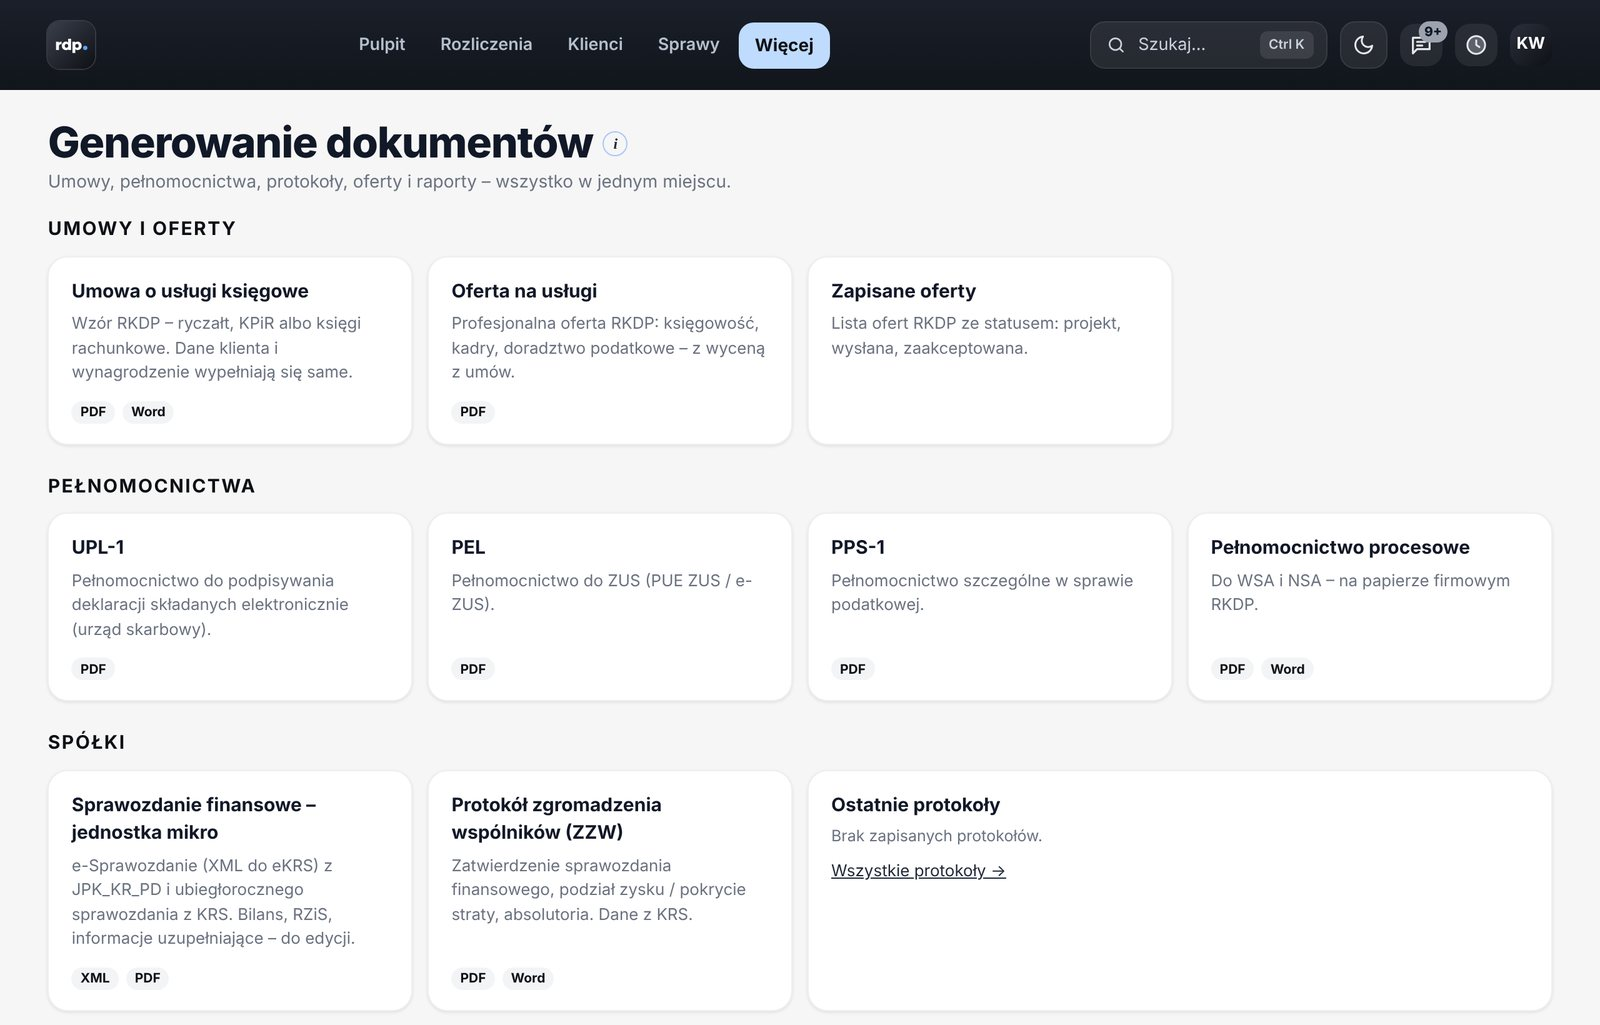
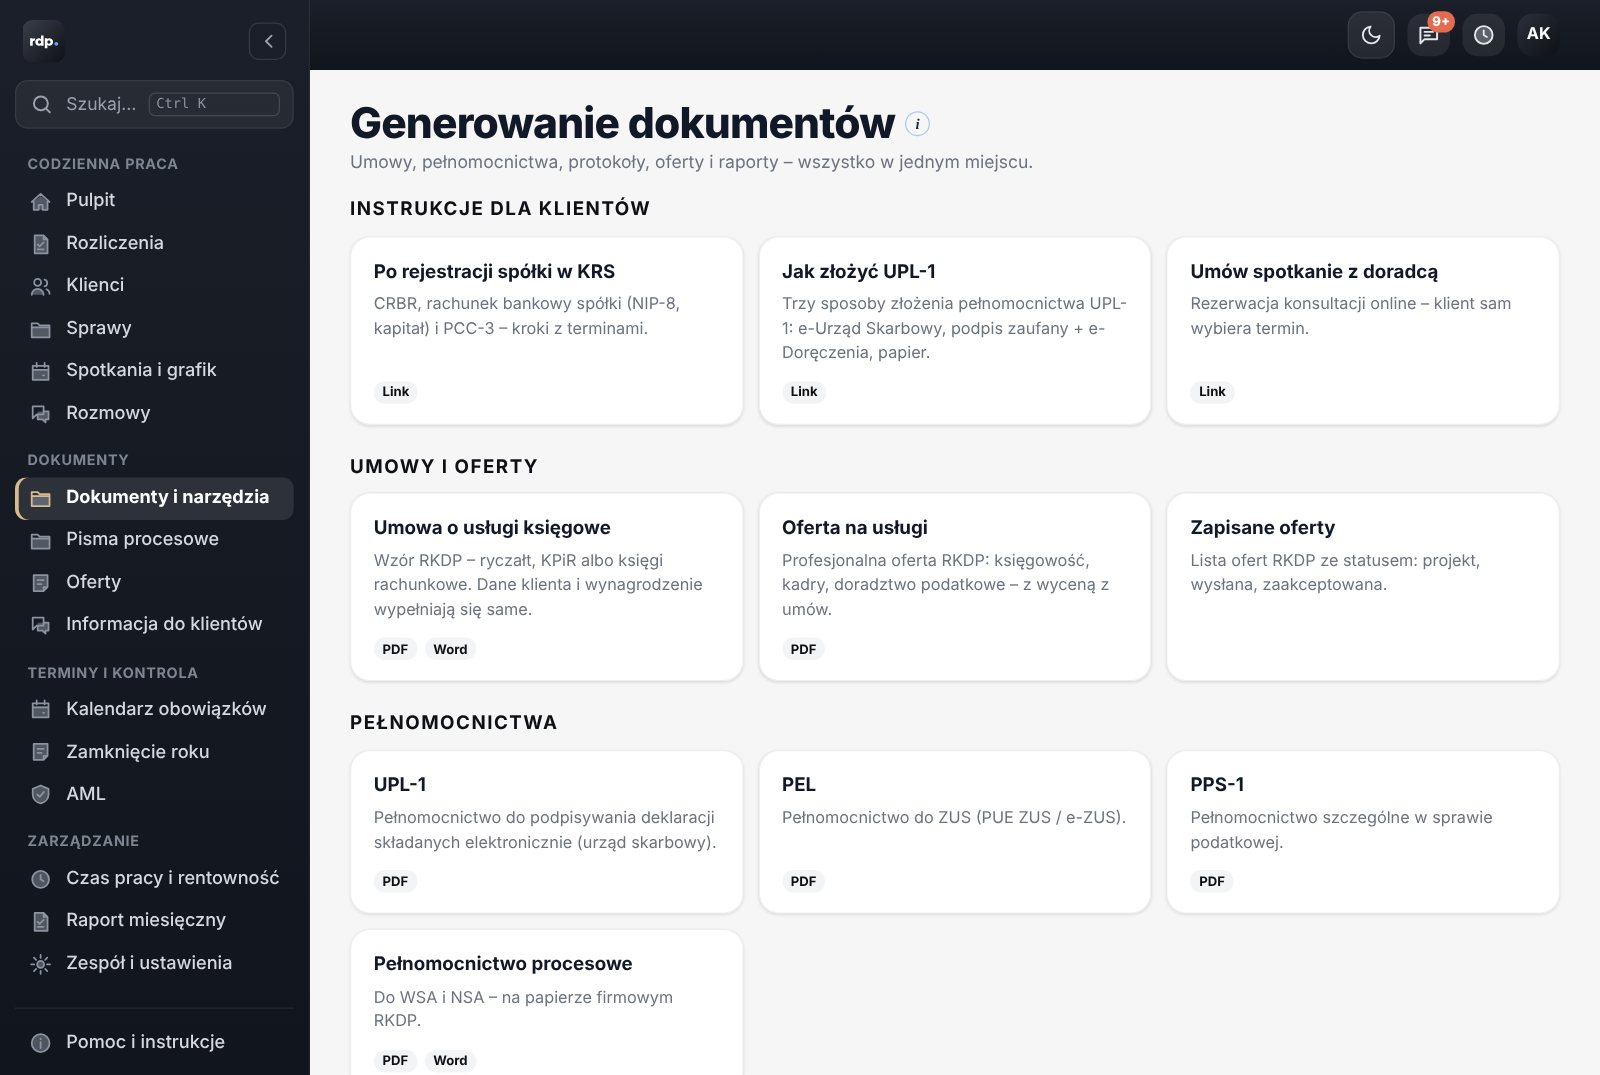
Instrukcja dla klienta po rejestracji spółki w KRS + Instrukcje dla klientów w Dokumentach
Claude-Session: https://claude.ai/code/session_015JBGQnBs9Q66i9WSPfBoSb

diff --git a/public/po-rejestracji/index.html b/public/po-rejestracji/index.html
@@ -1,0 +1,92 @@
+<!doctype html>
+<html lang="pl">
+<head>
+<meta charset="utf-8">
+<meta name="viewport" content="width=device-width, initial-scale=1">
+<title>Spółka zarejestrowana w KRS – co dalej</title>
+<meta name="description" content="Kroki po rejestracji spółki w KRS: zgłoszenie do CRBR, rachunek bankowy spółki, PCC-3.">
+<link rel="icon" href="/favicon-v7.svg" type="image/svg+xml">
+<link rel="stylesheet" href="/umow/doc.css">
+<style>
+.step-meta{display:flex;flex-wrap:wrap;gap:6px 18px;margin:0 0 12px;font-size:15px;color:var(--muted)}
+.step-meta b{color:var(--ink)}
+.toc{list-style:none;padding:0;margin:22px 0 6px;border-top:1px solid var(--line)}
+.toc li{margin:0;border-bottom:1px solid var(--line)}
+.toc a{display:flex;gap:14px;align-items:baseline;padding:12px 2px;text-decoration:none;color:var(--ink);font-weight:600}
+.toc a span{font-family:var(--serif);color:var(--accent);min-width:18px}
+.toc a em{font-style:normal;font-weight:400;color:var(--muted);font-size:15px;margin-left:auto;text-align:right}
+@media (max-width:560px){.toc a{flex-wrap:wrap}.toc a em{margin-left:32px;text-align:left;width:100%}}
+</style>
+</head>
+<body>
+<header><div class="in"><span class="brand"><img src="/logo-rdp.svg" alt="rdp.app" width="32" height="32"><span>Po rejestracji spółki</span></span><span class="appname">rdp.app</span></div></header>
+<main>
+<p class="kicker" id="firma" hidden></p>
+<h1>Spółka zarejestrowana w KRS – co dalej</h1>
+<p class="meta">Instrukcja dla klientów · aktualna na listopad 2026 r.</p>
+
+<p>Szanowni Państwo,</p>
+<p>gratulujemy rejestracji spółki w KRS. W związku z tym prosimy o wykonanie kilku niezbędnych kroków organizacyjnych. Każdy z nich ma swój termin – najlepiej zająć się nimi od razu.</p>
+
+<ol class="toc">
+<li><a href="#crbr"><span>1</span>Zgłoszenie do CRBR<em>14 dni od wpisu do KRS</em></a></li>
+<li><a href="#bank"><span>2</span>Rachunek bankowy spółki<em>niezwłocznie, najlepiej do 14 dni</em></a></li>
+<li><a href="#pcc"><span>3</span>PCC-3 – deklaracja i zapłata podatku<em>14 dni od zawarcia umowy spółki</em></a></li>
+</ol>
+
+<section id="crbr">
+<h2>1. Zgłoszenie spółki do Centralnego Rejestru Beneficjentów Rzeczywistych (CRBR)</h2>
+<p class="step-meta"><span>Termin: <b>14 dni od wpisu do KRS</b> (nie licząc sobót i niedziel)</span><span>Opłata: <b>bezpłatnie</b></span></p>
+<p>Zgłoszenia należy dokonać niezwłocznie pod adresem: <a href="https://crbr.podatki.gov.pl/adcrbr/#/" target="_blank" rel="noopener">crbr.podatki.gov.pl/adcrbr</a>.</p>
+<div class="box hl"><p><strong>Bez zgłoszenia w CRBR nie będzie możliwe otwarcie rachunku bankowego spółki</strong> – bank poprosi o potwierdzenie zgłoszenia.</p></div>
+<ol>
+<li>Wejdź na stronę <a href="https://crbr.podatki.gov.pl/adcrbr/#/" target="_blank" rel="noopener">crbr.podatki.gov.pl</a>.</li>
+<li>Wybierz opcję <strong>„Złóż zgłoszenie”</strong>.</li>
+<li>Wypełnij formularz zgodnie z danymi z KRS: dane spółki oraz <strong>beneficjentów rzeczywistych</strong> – zwykle są to wspólnicy spółki (osoby, które mają ponad 25% udziałów). Jeśli żaden wspólnik nie spełnia tego warunku, wpisuje się członków zarządu.</li>
+<li>Wpisz także dane <strong>osoby składającej zgłoszenie</strong> – musi to być osoba uprawniona do reprezentowania spółki (np. członek zarządu).</li>
+<li>Podpisz zgłoszenie <strong>profilem zaufanym</strong>, <strong>e-dowodem</strong> albo kwalifikowanym podpisem elektronicznym i wyślij.</li>
+<li>Pobierz <strong>potwierdzenie złożenia zgłoszenia</strong> – przyda się w banku. Prosimy przesłać je też nam.</li>
+</ol>
+<p class="small">Zgłoszenie składa wyłącznie osoba uprawniona do reprezentowania spółki – nie można w tym zakresie udzielić pełnomocnictwa. W razie problemów ze zgłoszeniem prosimy o kontakt – pomożemy krok po kroku.</p>
+</section>
+
+<section id="bank">
+<h2>2. Założenie rachunku bankowego spółki</h2>
+<p class="step-meta"><span>Termin: <b>niezwłocznie, najlepiej w ciągu 14 dni od wpisu do KRS</b></span></p>
+<p>Prosimy założyć rachunek bankowy spółki <strong>w terminie 14 dni od dnia rejestracji w KRS</strong>. Rachunek jest potrzebny, bo:</p>
+<ul>
+<li>jego numer trzeba zgłosić do urzędu skarbowego na formularzu <strong>NIP-8</strong> – w ciągu <strong>21 dni od wpisu do KRS</strong> (każdą późniejszą zmianę rachunku – w ciągu 7 dni),</li>
+<li>w spółce założonej przez internet (S24) wspólnicy wpłacają <strong>kapitał zakładowy</strong> na rachunek spółki w ciągu <strong>7 dni od wpisu do KRS</strong>,</li>
+<li>z rachunku spółki płaci się podatki i rozlicza transakcje firmowe.</li>
+</ul>
+<ol>
+<li>Wybierz bank i umów się na otwarcie rachunku firmowego (wiele banków robi to online).</li>
+<li>Przygotuj: numer KRS, NIP i REGON spółki, <strong>potwierdzenie zgłoszenia do CRBR</strong> oraz dowody osobiste członków zarządu.</li>
+<li>Po założeniu rachunku <strong>prześlij nam skan lub PDF potwierdzenia otwarcia rachunku</strong> e-mailem <span id="mail-to"></span> – zgłosimy numer rachunku w NIP-8.</li>
+</ol>
+</section>
+
+<section id="pcc">
+<h2>3. PCC-3 – złożenie deklaracji i zapłata podatku</h2>
+<p class="step-meta"><span>Termin: <b>14 dni od zawarcia umowy spółki</b></span><span>Stawka: <b>0,5%</b></span></p>
+<div class="box"><p><strong>Kogo dotyczy?</strong> Spółek, których umowę zawarto <strong>przez internet (S24)</strong>. Jeśli umowa spółki była podpisana <strong>u notariusza</strong>, podatek pobrał notariusz – ten krok można pominąć.</p></div>
+<h3>Ile wynosi podatek</h3>
+<p>Podatek to <strong>0,5% kapitału zakładowego</strong>, pomniejszonego o koszty założenia spółki – przy S24 jest to opłata sądowa za wpis do KRS (250 zł). Podstawę i podatek zaokrągla się do pełnych złotych.</p>
+<p class="small">Przykład: kapitał 5000 zł, opłata sądowa 250 zł → podstawa 4750 zł × 0,5% = 23,75 zł → do zapłaty <strong>24 zł</strong>.</p>
+<h3>Jak złożyć i zapłacić</h3>
+<ol>
+<li>Złóż deklarację <strong>PCC-3</strong> w imieniu spółki (NIP spółki) – najprościej online w <a href="https://www.podatki.gov.pl/e-urzad-skarbowy/" target="_blank" rel="noopener">e-Urzędzie Skarbowym</a>. Urząd skarbowy: właściwy dla siedziby spółki. Przedmiot opodatkowania: <strong>umowa spółki</strong>.</li>
+<li>Zapłać podatek na <strong>indywidualny mikrorachunek podatkowy spółki</strong> – numer wygenerujesz na <a href="https://www.podatki.gov.pl/generator-mikrorachunku-podatkowego" target="_blank" rel="noopener">podatki.gov.pl → generator mikrorachunku</a> (podaj NIP spółki). W tytule: <strong>PCC-3</strong> i data zawarcia umowy.</li>
+<li>Zachowaj <strong>UPO</strong> (potwierdzenie złożenia) i potwierdzenie przelewu i prześlij je nam.</li>
+</ol>
+<p class="small">Możemy złożyć PCC-3 za Państwa – wystarczy pełnomocnictwo <a href="/upl-1/">UPL-1</a>. Jeśli termin 14 dni już minął, prosimy o pilny kontakt – pomożemy uregulować podatek z jak najmniejszymi konsekwencjami.</p>
+</section>
+
+<h2>Masz pytanie?</h2>
+<p id="kontakt-osoba" hidden></p>
+<p>Odpowiedz na naszego e-maila albo zadzwoń: <a href="tel:+48883643565">883 643 565</a> · <a href="mailto:kancelaria@rkdp.pl">kancelaria@rkdp.pl</a>.</p>
+</main>
+<footer><div class="in">RKDP spółka doradztwa podatkowego sp. z o.o. · ul. Beaty Artemskiej 11/44, 52-234 Wrocław<br>NIP 8992871126 · KRS 0000812185 · tel. 883 643 565 · kancelaria@rkdp.pl</div></footer>
+<script src="/po-rejestracji/po.js"></script>
+</body>
+</html>

diff --git a/public/js/tools/instrukcje.js b/public/js/tools/instrukcje.js
@@ -1,0 +1,47 @@
+// Instrukcje dla klientów – jedno miejsce z linkami do stron dla klientów (kopiuj, otwórz, wyślij e-mailem).
+import { h, modal, toast } from '../ui.js';
+import { state } from '../store.js';
+
+export const INSTRUKCJE = [
+  { key: 'po-rejestracji', title: 'Po rejestracji spółki w KRS', path: '/po-rejestracji/', personal: true,
+    desc: 'CRBR, rachunek bankowy spółki (NIP-8, kapitał) i PCC-3 – kroki z terminami.',
+    subject: 'Spółka zarejestrowana w KRS – kolejne kroki',
+    body: (link) => `Szanowni Państwo,\n\ngratuluję rejestracji spółki w KRS. W związku z tym proszę o realizację kilku niezbędnych kroków organizacyjnych:\n\n1. Zgłoszenie spółki do Centralnego Rejestru Beneficjentów Rzeczywistych (CRBR) – w ciągu 14 dni od wpisu do KRS. Bez zgłoszenia w CRBR nie będzie możliwe otwarcie rachunku bankowego spółki.\n2. Założenie rachunku bankowego spółki – po założeniu proszę o przesłanie skanu potwierdzenia otwarcia rachunku na mój adres e-mail.\n3. PCC-3 – złożenie deklaracji i zapłata podatku (spółki założone przez S24) – w ciągu 14 dni od zawarcia umowy spółki.\n\nInstrukcja krok po kroku: ${link}\n\nW razie problemów proszę o kontakt – pomogę krok po kroku.` },
+  { key: 'upl-1', title: 'Jak złożyć UPL-1', path: '/upl-1/',
+    desc: 'Trzy sposoby złożenia pełnomocnictwa UPL-1: e-Urząd Skarbowy, podpis zaufany + e-Doręczenia, papier.',
+    subject: 'Pełnomocnictwo UPL-1 – instrukcja',
+    body: (link) => `Dzień dobry,\n\nprzesyłamy instrukcję złożenia pełnomocnictwa UPL-1 – dzięki niemu będziemy mogli wysyłać w Państwa imieniu deklaracje i pliki JPK do urzędu skarbowego. Złożenie UPL-1 jest bezpłatne.\n\nInstrukcja krok po kroku: ${link}\n\nW razie pytań jesteśmy do dyspozycji.` },
+  { key: 'umow', title: 'Umów spotkanie z doradcą', path: '/umow/',
+    desc: 'Rezerwacja konsultacji online – klient sam wybiera termin.',
+    subject: 'Umówienie spotkania',
+    body: (link) => `Dzień dobry,\n\ntermin spotkania można wybrać samodzielnie pod linkiem: ${link}\n\nPozdrawiam` },
+];
+
+export function instrukcjaDialog(item) {
+  const me = state.me || {};
+  const f = { firma: '', osoba: me.full_name || '', email: me.email || '', tel: '', to: '' };
+  const link = () => {
+    const q = new URLSearchParams();
+    if (item.personal) for (const k of ['firma', 'osoba', 'email', 'tel']) if (f[k].trim()) q.set(k, f[k].trim());
+    return `${location.origin}${item.path}${q.toString() ? '?' + q : ''}`;
+  };
+  const out = h('input', { class: 'input', readonly: true, value: link(), onfocus: e => e.target.select() });
+  const upd = () => { out.value = link(); };
+  const field = (label, k, attrs = {}) => h('label', { class: 'field' }, h('span', {}, label),
+    h('input', { class: 'input', value: f[k], maxlength: 120, ...attrs, oninput: e => { f[k] = e.target.value; upd(); } }));
+  const copy = async () => { try { await navigator.clipboard.writeText(link()); toast('Link skopiowany'); } catch { out.select(); toast('Zaznaczono link – skopiuj Ctrl+C'); } };
+  const mail = () => { location.href = `mailto:${encodeURIComponent(f.to.trim())}?subject=${encodeURIComponent(item.subject)}&body=${encodeURIComponent(item.body(link()))}`; };
+  const body = h('div', {},
+    h('p', { class: 'small muted', style: { margin: '0 0 12px' } }, item.desc),
+    item.personal ? h('div', {},
+      field('Nazwa klienta (opcjonalnie – pojawi się na górze strony)', 'firma', { placeholder: 'np. Alfa Bud sp. z o.o.' }),
+      h('div', { class: 'grid2', style: { display: 'grid', gridTemplateColumns: 'repeat(auto-fit,minmax(180px,1fr))', gap: '0 12px' } },
+        field('Opiekun', 'osoba'), field('E-mail opiekuna (tu klient wyśle potwierdzenia)', 'email', { type: 'email' }), field('Telefon (opcjonalnie)', 'tel', { type: 'tel' }))) : null,
+    field('Adres e-mail klienta (do wiadomości)', 'to', { type: 'email', placeholder: 'klient@firma.pl' }),
+    h('label', { class: 'field' }, h('span', {}, 'Link dla klienta'), out));
+  modal(item.title, body, close => [
+    h('a', { class: 'btn btn-sm', href: link(), target: '_blank', rel: 'noopener', onclick: e => { e.currentTarget.href = link(); } }, 'Otwórz'),
+    h('button', { class: 'btn btn-sm', onclick: copy }, 'Kopiuj link'),
+    h('button', { class: 'btn btn-primary btn-sm', onclick: () => { mail(); close(); } }, 'Wyślij e-mailem'),
+  ]);
+}

diff --git a/public/pomoc/ksiegowosc/index.html b/public/pomoc/ksiegowosc/index.html
@@ -15,7 +15,7 @@
 <main id="top">
 <p class="kicker">RKDP · zespół księgowy</p>
 <h1>rdp.app – instrukcja dla księgowości</h1>
-<p class="meta">Pulpit, rozliczenia miesiąca, klienci, umowy i pełnomocnictwa do podpisu, zadania i rozmowy · aktualizacja: 16 listopada 2026 r.</p>
+<p class="meta">Pulpit, rozliczenia miesiąca, klienci, umowy i pełnomocnictwa do podpisu, zadania i rozmowy · aktualizacja: 20 listopada 2026 r.</p>
 <p class="small">Zrzuty ekranu pokazują wersję demonstracyjną z fikcyjnymi danymi (np. „Katarzyna Wiśniewska”, klient „Wójcik Igor”). Wszystkie instrukcje znajdziesz w aplikacji: <b>Więcej → Pomoc i instrukcje</b>.</p>
 
 <ol class="toc">
@@ -126,6 +126,7 @@
 <h2 id="narzedzia"><span class="n">9</span>Dokumenty i narzędzia</h2>
 <figure><img src="/pomoc/img/ksieg-narzedzia.jpg" alt="Dokumenty i narzędzia" loading="lazy"><figcaption>Więcej → Dokumenty i narzędzia: umowy, oferty, pełnomocnictwa (UPL-1, PEL, PPS-1, procesowe), sprawozdania finansowe (XML do eKRS), protokoły ZZW, JPK, kalkulator.</figcaption></figure>
 <p><b>Oferta e-mailem:</b> w ofercie przycisk <b>Wyślij e-mailem</b> – klient dostaje wiadomość z Twoją stopką i przyciskiem „Zobacz ofertę”; link otwiera ofertę bez logowania, z pobraniem PDF, i zawsze pokazuje ostatnio zapisaną wersję. Status oferty zmienia się na „wysłana”, a w ofercie widać, czy i kiedy klient ją otworzył. „Link do oferty” daje sam link do skopiowania (np. do SMS).</p>
+<p><b>Instrukcje dla klientów:</b> na górze strony Dokumenty i narzędzia – „Po rejestracji spółki w KRS” (CRBR, rachunek bankowy, PCC-3), „Jak złożyć UPL-1”, „Umów spotkanie”. Kliknij kafelek: możesz wpisać nazwę klienta i swoje dane kontaktowe (pojawią się na stronie), a potem <b>Kopiuj link</b>, <b>Otwórz</b> albo <b>Wyślij e-mailem</b> (gotowa treść wiadomości z linkiem).</p>
 <p>W „Więcej” są też: Kalendarz obowiązków, Zamknięcie roku, Informacja do klientów (e-mail zbiorczy), Oferty, AML, Rozmowy, Spotkania.</p>
 
 <h2 id="telefon"><span class="n">10</span>Telefon, powiadomienia, „Co nowego”</h2>

diff --git a/public/js/views/oaplikacji.js b/public/js/views/oaplikacji.js
@@ -3,8 +3,8 @@ import { h } from '../ui.js';
 import { state } from '../store.js';
 import { TERMS_VERSION } from '../regulamin.js';
 
-export const APP_VERSION = '2.5';
-export const APP_DATE = '2026-11-19';
+export const APP_VERSION = '2.6';
+export const APP_DATE = '2026-11-20';
 const DOCS_DATE = '2 listopada 2026 r.';
 
 const OWNER = 'RKDP spółka doradztwa podatkowego sp. z o.o. z siedzibą w Ozorzycach (ul. Czereśniowa 28d, 55-010 Ozorzyce), KRS 0000812185, NIP 8992871126, REGON 384812329';
@@ -95,6 +95,10 @@ export const RODO = [
 
 // historia zmian – od pierwszej wersji (najnowsze na górze)
 const NEWS = [
+  ['2.6', '20 listopada 2026', [
+    'Instrukcje dla klientów w jednym miejscu: Dokumenty i narzędzia → „Instrukcje dla klientów” – link do skopiowania, otwarcia albo wysłania e-mailem.',
+    'Nowa instrukcja dla klienta „Spółka zarejestrowana w KRS – co dalej”: CRBR, rachunek bankowy (NIP-8, kapitał) i PCC-3 z terminami; z nazwą klienta i danymi opiekuna (na ten adres klient wysyła potwierdzenie otwarcia rachunku).',
+  ]],
   ['2.5', '19 listopada 2026', [
     'Rozliczenia: filtr „Rewizor zrobiony, klient nierozliczony” – Rewizor oznaczony jako zrobiony, ale klient nie jest jeszcze rozliczony (zamiast warunku „VAT niewysłany”).',
     'Zadania: po „Akceptuję – zakończ” (i „Zakończ”) okno zadania od razu się zamyka.',

diff --git a/public/js/views/dokumenty.js b/public/js/views/dokumenty.js
@@ -3,6 +3,7 @@ import { h, fail, infoTip } from '../ui.js';
 import { sb, hasModule } from '../store.js';
 import { dokumentyDialog } from '../rkdp/docs.js';
 import { WZORY } from '../tools/wzory.js';
+import { INSTRUKCJE, instrukcjaDialog } from '../tools/instrukcje.js';
 
 const HELP = `Tu wygenerujesz każdy dokument z aplikacji:
 • Kliknij kafelek, wybierz klienta i uzupełnij dane – większość pól wypełnia się sama z karty klienta, KRS lub Twojego profilu.
@@ -35,6 +36,8 @@ export async function renderDokumenty(main) {
       h('div', {},
         h('h1', { style: { marginTop: '6px', display: 'flex', alignItems: 'center' } }, 'Generowanie dokumentów', infoTip(HELP, 'Generowanie dokumentów – instrukcja')),
         h('p', { class: 'sub' }, 'Umowy, pełnomocnictwa, protokoły, oferty i raporty – wszystko w jednym miejscu.'))),
+    group('Instrukcje dla klientów',
+      ...INSTRUKCJE.map(it => tile(it.title, it.desc, () => instrukcjaDialog(it), ['Link']))),
     group('Umowy i oferty',
       tile('Umowa o usługi księgowe', 'Wzór RKDP – ryczałt, KPiR albo księgi rachunkowe. Dane klienta i wynagrodzenie wypełniają się same.', doc('umowa'), ['PDF', 'Word']),
       tile('Oferta na usługi', 'Profesjonalna oferta RKDP: księgowość, kadry, doradztwo podatkowe – z wyceną z umów.', '#/oferty/nowa', ['PDF']),

diff --git a/public/po-rejestracji/po.js b/public/po-rejestracji/po.js
@@ -1,0 +1,20 @@
+// Instrukcja po rejestracji spółki: ?firma=… (nazwa klienta), ?osoba=…, ?email=…, ?tel=… (kto z biura się kontaktuje) – wszystko jako tekst.
+(() => {
+  const q = new URLSearchParams(location.search);
+  const val = k => (q.get(k) || '').trim().slice(0, 120);
+  const firma = val('firma'), osoba = val('osoba'), email = val('email'), tel = val('tel').replace(/[^\d+ ]/g, '');
+  if (firma) { const el = document.getElementById('firma'); el.textContent = firma; el.hidden = false; }
+  const okMail = /^[^\s@<>"]+@[^\s@<>"]+\.[a-z]{2,}$/i.test(email);
+  if (okMail) {
+    const a = document.createElement('a'); a.href = 'mailto:' + email; a.textContent = email;
+    const s = document.getElementById('mail-to'); s.append('na adres ', a);
+  }
+  if (osoba || okMail || tel) {
+    const p = document.getElementById('kontakt-osoba');
+    p.append('Państwa opiekun: ');
+    if (osoba) { const b = document.createElement('strong'); b.textContent = osoba; p.append(b); }
+    if (okMail) { const a = document.createElement('a'); a.href = 'mailto:' + email; a.textContent = email; p.append(osoba ? ' · ' : '', a); }
+    if (tel) { const a = document.createElement('a'); a.href = 'tel:' + tel.replace(/ /g, ''); a.textContent = tel; p.append(' · ', a); }
+    p.hidden = false;
+  }
+})();

diff --git a/public/sw.js b/public/sw.js
@@ -1,7 +1,7 @@
 // Service worker aplikacji RKDP: powiadomienia push, instalacja jako aplikacja (PWA) i ekran „brak internetu”.
 // Danych z bazy NIE zapisujemy w pamięci urządzenia – w trybie offline pokazujemy tylko komunikat.
 const OFFLINE = '/offline.html';
-const CACHE = 'rkdp-shell-v117';
+const CACHE = 'rkdp-shell-v118';
 const NAV = 'rkdp-nav'; // cel kliknięcia w powiadomienie – odbiera go otwarta aplikacja
 
 self.addEventListener('install', e => {
